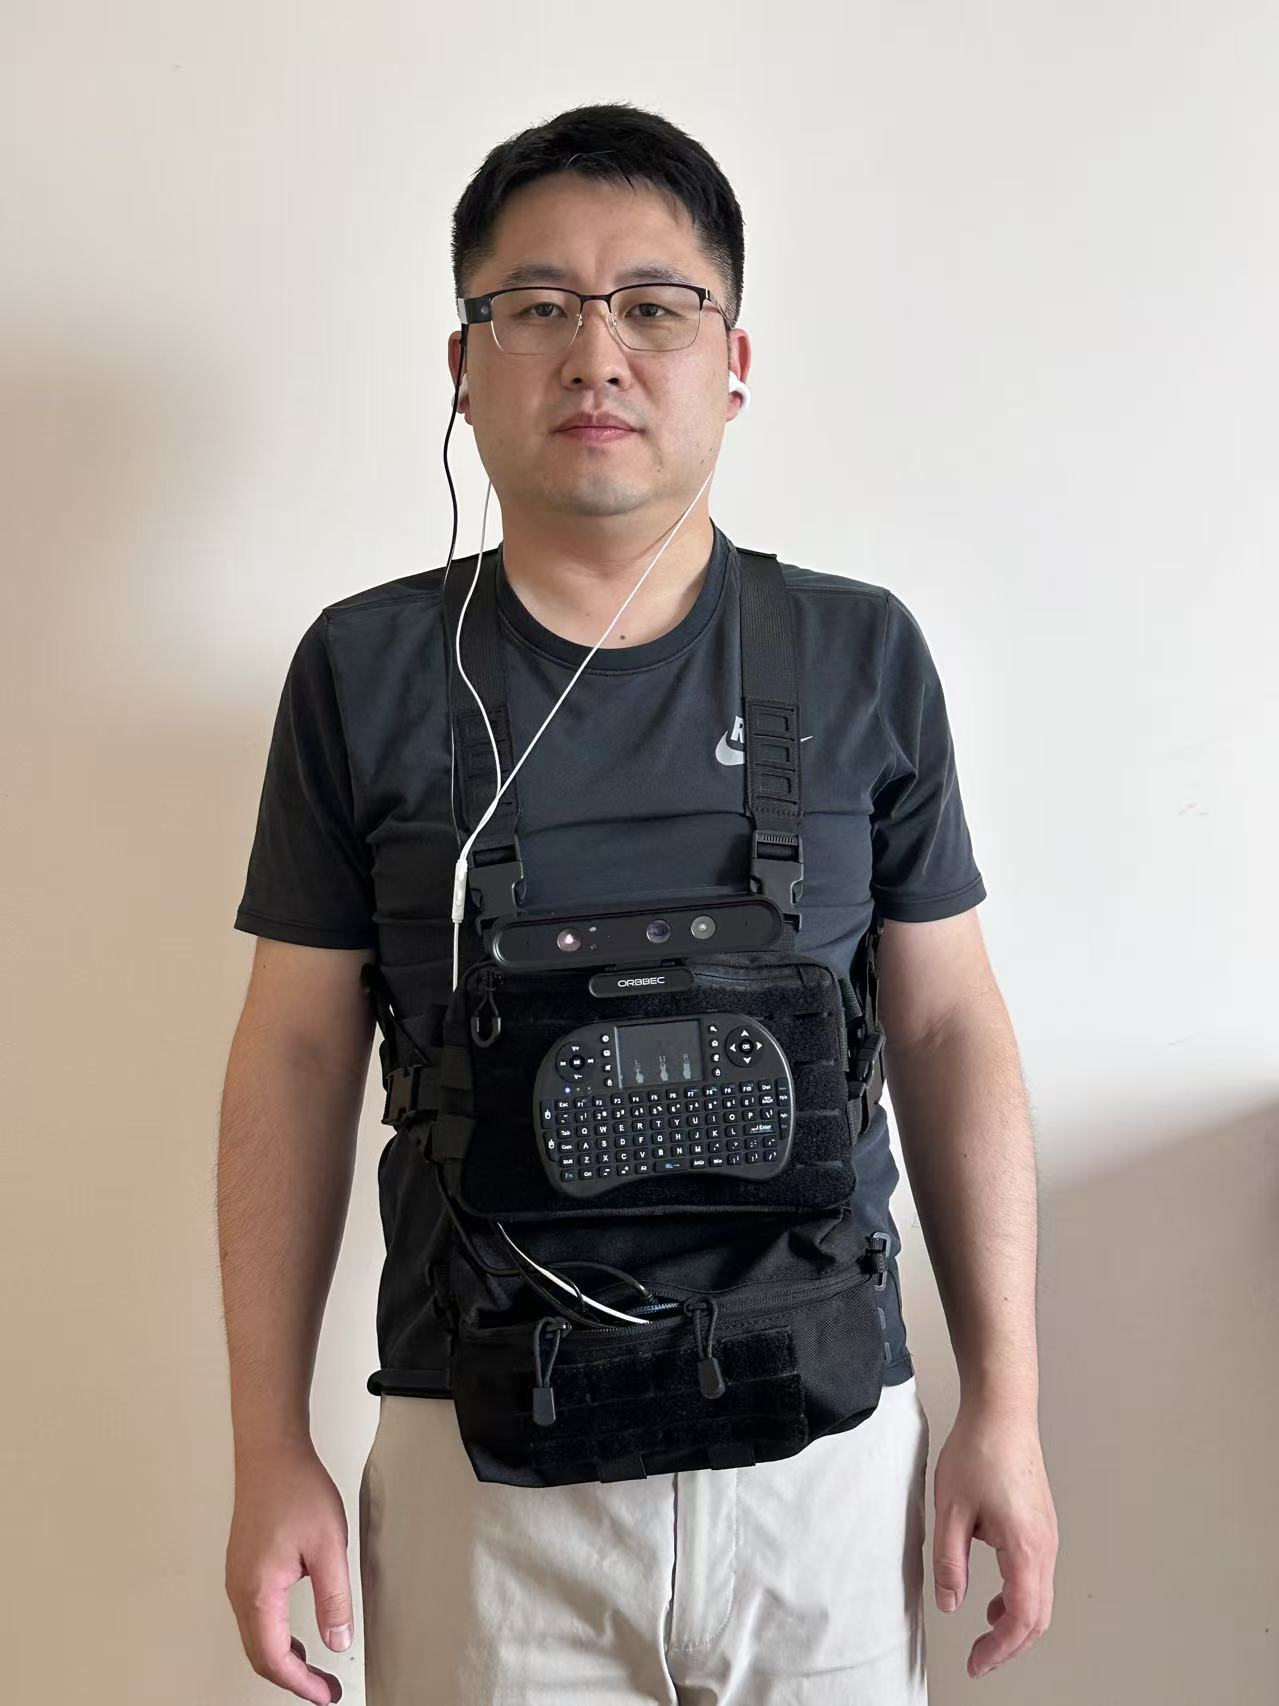
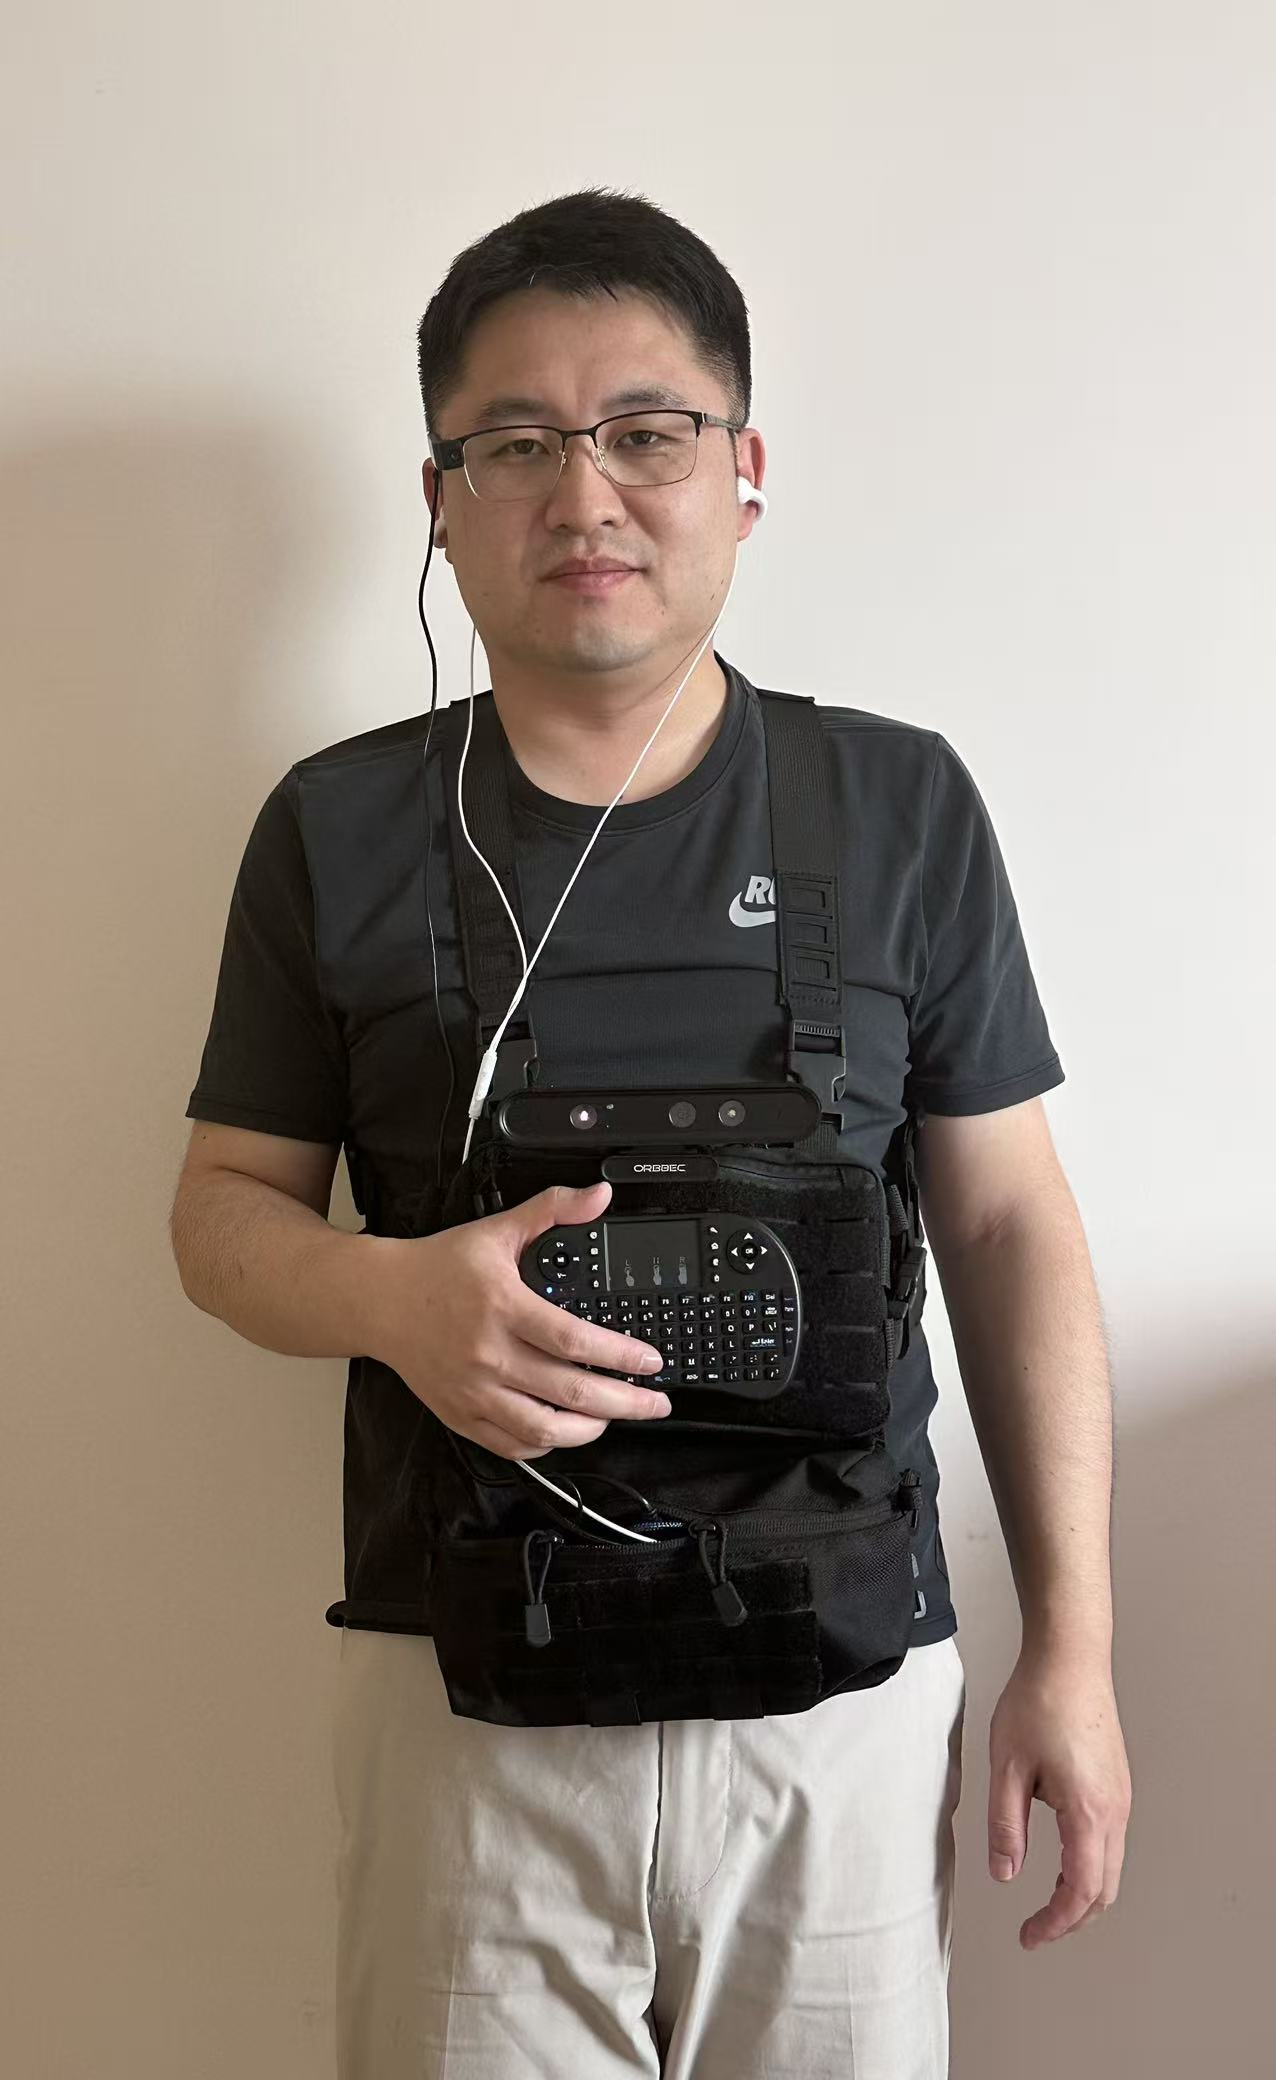
docs: update README with telemetry dashboard, future concept 2, and file organization
- Add Web telemetry dashboard section with telemetry_ui.png screenshot
- Add future_concept2.png to roadmap concept design
- Rename Chinese filename to telemetry_ui.png
- Clean up OrbbecSDK.log.txt and __pycache__ residues
- Update project structure tree in both Chinese and English READMEs

diff --git a/README_EN.md b/README_EN.md
@@ -106,7 +106,7 @@ The project spans a complete full-stack development path, ranging from **PC prot
 
 ```text
 VisionLink/
-├── src/                    # Core Source Code (Cross-platform, 10 modules)
+├── src/                    # Core Source Code (Cross-platform, 15 modules)
 │   ├── platform.py         # Platform detection & environment adaptation
 │   ├── config.py           # Unified configuration center
 │   ├── camera.py           # Dual camera management (POV glasses + FOV chest)
@@ -116,20 +116,36 @@ VisionLink/
 │   ├── ui.py               # UI rendering (YOLO overlay, auto-adapts to headless mode)
 │   ├── agent.py            # Core controller (state machine / auto mode / YOLO callback)
 │   ├── prompts.py          # Prompt template library (CN/EN bilingual)
-│   └── orbbec_depth.py     # Orbbec Astra Plus depth camera ctypes wrapper
-├── apps/                   # Application Entries (3)
+│   ├── orbbec_depth.py     # Orbbec Astra Plus depth camera ctypes wrapper
+│   ├── volume_control.py   # USB headset physical volume button listener (evdev + amixer)
+│   ├── web_dashboard.py    # Web control panel (real-time status / logs / control)
+│   ├── web_preview.py      # Web real-time camera preview
+│   └── dashboard_status.py # System status data collection
+├── apps/                   # Application Entries (4)
 │   ├── desktop.py          # Windows/Linux Desktop GUI full-featured edition
 │   ├── headless.py         # Jetson headless mode (evdev global keyboard listener)
-│   └── jetson.py           # Jetson terminal keyboard compatible (backward compat)
-├── scripts/                # Diagnostic & testing scripts (5)
+│   ├── jetson.py           # Jetson terminal keyboard compatible (backward compat)
+│   └── web_app.py          # Web control panel standalone entry
+├── scripts/                # Diagnostic & testing scripts (4)
 │   ├── check_system.py     # One-click system comprehensive diagnostic (8 categories)
 │   ├── check_camera.py     # Camera scanning & diagnostic
-│   └── check_audio.py      # Audio device detection & TTS test
-├── start.sh                # One-click launcher (5 modes)
-├── archive/                # Legacy iteration history (11 files)
+│   ├── check_audio.py      # Audio device detection & TTS test
+│   └── export_yolo_trt.py  # YOLOv8 TensorRT model export
+├── tests/                  # Unit tests (pytest)
+│   ├── conftest.py         # Test fixtures & mocks
+│   ├── test_agent.py       # Agent core logic tests
+│   ├── test_config.py      # Config module tests
+│   ├── test_detection.py   # YOLO detection module tests
+│   ├── test_platform.py    # Platform detection module tests
+│   ├── test_prompts.py     # Prompt template tests
+│   └── test_tts.py         # TTS module tests
+├── .github/workflows/      # CI/CD automated testing pipeline
+├── start.sh                # One-click launcher (6 modes)
+├── archive/                # Legacy iteration history
 ├── assets/                 # Static resources (Fonts, Audio)
 ├── docs/                   # Technical documentation
 ├── Log/                    # Runtime logs
+├── pytest.ini              # pytest configuration
 ├── requirements.txt        # Universal dependencies
 └── requirements-jetson.txt # Jetson-specific dependencies
 ```
@@ -167,6 +183,7 @@ ollama pull gemma4:e2b-it-qat
 ./start.sh              # Default: single-cam POV mode
 ./start.sh dual         # Dual-cam mode (POV + FOV)
 ./start.sh full         # Full mode (dual-cam + YOLO avoidance)
+./start.sh depth        # Depth avoidance mode (dual-cam + YOLO + Orbbec real depth)
 ./start.sh gui          # Headless + GUI debug window
 ./start.sh desktop      # Desktop GUI mode
 ```
@@ -193,6 +210,65 @@ ollama pull gemma4:e2b-it-qat
 
 ---
 
+## New Features
+
+### USB Headset Physical Volume Buttons
+
+In headless mode, physical volume +/- buttons on USB headsets have no effect by default (ALSA direct connection lacks HID event handling). The `src/volume_control.py` module listens for HID volume key events via evdev and automatically adjusts the sound card volume through amixer.
+
+- Auto-discovers the headset's `/dev/input/event*` device
+- Supports hot-plug with automatic reconnect on device disconnect
+- Graceful degradation: silently falls back if no device is detected
+- Auto-starts with the application, no extra configuration needed
+
+### Web Telemetry Dashboard
+
+VisionLink includes a built-in web telemetry dashboard. Open it on any phone/computer browser on the same LAN to monitor system status in real time:
+
+![Telemetry Dashboard](images/telemetry_ui.png)
+
+**How to access**: After launching the program, open `http://<Jetson_IP>:5000` in a browser.
+
+**Modules**:
+
+| Module | File | Description |
+| :--- | :--- | :--- |
+| Data Collection | `src/dashboard_status.py` | Thread-safe singleton tracking mode/YOLO/depth camera/Ollama connection status; inference/detection/TTS event logs (ring buffer, max 50 per type) |
+| Hardware Telemetry | `src/dashboard_status.py` | Jetson platform via jtop (GPU/CPU/Memory/Temperature), non-Jetson via psutil fallback |
+| Web Dashboard | `src/web_dashboard.py` | Flask routes + HTML page, dark terminal-style UI, real-time GPU/CPU/MEM/TEMP gauges, mode status, event log streams |
+| Video Stream | `src/web_preview.py` | MJPEG real-time video stream (`/video_feed`), background daemon thread, non-blocking |
+
+**Dashboard page features**:
+- **Hardware Status**: GPU usage, CPU usage, memory, chip temperature, refreshed every 2s
+- **App Status**: Current mode, YOLO on/off, depth camera connection, Ollama connection, auto mode status
+- **Real-time Logs**: Inference results (with latency), obstacle detection (danger/warning tiers), TTS playback records
+- **Latest Snapshot**: Most recent recognition result and corresponding image
+
+### Unit Tests & CI
+
+The project now integrates pytest testing framework, covering core modules:
+
+| Test File | Module Covered |
+| :--- | :--- |
+| `tests/test_agent.py` | Agent state machine & core logic |
+| `tests/test_config.py` | Config loading & validation |
+| `tests/test_detection.py` | YOLO detection pipeline |
+| `tests/test_platform.py` | Platform detection & adaptation |
+| `tests/test_prompts.py` | Prompt template rendering |
+| `tests/test_tts.py` | TTS multi-level fallback logic |
+
+```bash
+# Run all tests
+pytest tests/ -v
+
+# Run single module tests
+pytest tests/test_agent.py -v
+```
+
+CI runs automatically on every push via `.github/workflows/ci.yml`.
+
+---
+
 ## Product Roadmap
 
 * [x] **Phase 1 (PC Demo)**: Completed core pipeline execution on PC; validated three core multimodal application modules.
@@ -200,8 +276,14 @@ ollama pull gemma4:e2b-it-qat
 * [x] **Phase 3 (Engineering Refactor)**: Modularized the code architecture; unified cross-platform interfaces and added headless mode support.
 * [x] **Phase 4 (Hardware Integration)**: Fabricated the prototype for the head-tracked micro Type-C glasses camera; initially verified POV image capture stability.
 * [x] **Phase 5 (YOLO + Dual-Cam Fusion)**: Completed YOLOv8 real-time obstacle avoidance + depth distance estimation + dual-perspective fusion; global keyboard interaction in headless mode.
+* [x] **Phase 5.5 (Polishing & Tooling)**: USB headset physical volume button support, web control panel & real-time preview, pytest unit test framework & CI/CD pipeline, Orbbec depth avoidance mode.
 * [ ] **Phase 6 (Product Enclosure)**: Complete 3D nylon printing for ergonomic wearable kits; seamlessly modify the tactical chest pack for motherboard concealment and passive cooling.
 * [ ] **Phase 7 (Vertical Expansion)**: Cross over to neighboring verticals, transferring technologies into network-isolated industrial inspection robotics and healthcare monitoring for elderlies with dementia.
+
+  **Future Concept Design**:
+
+  ![Future Concept 1](images/concept/future_concept.png)
+  ![Future Concept 2](images/concept/future_concept2.png)
 
 ---
 

diff --git a/README.md b/README.md
@@ -128,7 +128,7 @@ An offline multimodal generative AI assistive system based on Gemma 4 for visual
 
 ```
 VisionLink/
-├── src/                    # 核心源码（跨平台，10 个模块）
+├── src/                    # 核心源码（跨平台，15 个模块）
 │   ├── platform.py         # 平台检测与环境适配
 │   ├── config.py           # 统一配置中心
 │   ├── camera.py           # 双摄像头管理（POV 镜腿 + FOV 胸前）
@@ -138,20 +138,36 @@ VisionLink/
 │   ├── ui.py               # UI 绘制（YOLO 检测框叠加，自动适配无头模式）
 │   ├── agent.py            # 核心控制中枢（状态机 / 自动模式 / YOLO 回调）
 │   ├── prompts.py          # Prompt 模板库（中英双语）
-│   └── orbbec_depth.py     # Orbbec Astra Plus 深度相机 ctypes 封装
-├── apps/                   # 应用入口（3 个）
+│   ├── orbbec_depth.py     # Orbbec Astra Plus 深度相机 ctypes 封装
+│   ├── volume_control.py   # USB 耳麦物理音量按钮监听（evdev + amixer）
+│   ├── web_dashboard.py    # Web 控制面板（实时状态/日志/控制）
+│   ├── web_preview.py      # Web 实时画面预览
+│   └── dashboard_status.py # 系统状态数据采集
+├── apps/                   # 应用入口（4 个）
 │   ├── desktop.py          # Windows/Linux 桌面 GUI 全功能版
 │   ├── headless.py         # Jetson 无头模式主入口（evdev 全局键盘监听）
-│   └── jetson.py           # Jetson 终端键盘兼容版（向后兼容）
-├── scripts/                # 测试与诊断脚本（5 个）
+│   ├── jetson.py           # Jetson 终端键盘兼容版（向后兼容）
+│   └── web_app.py          # Web 控制面板独立入口
+├── scripts/                # 测试与诊断脚本（4 个）
 │   ├── check_system.py     # 一键系统综合诊断（8 大类检查）
 │   ├── check_camera.py     # 摄像头扫描与诊断
-│   └── check_audio.py      # 音频设备检测与 TTS 测试
-├── start.sh                # 一键启动脚本（5 种模式）
-├── archive/                # 历史迭代版本（11 个文件）
+│   ├── check_audio.py      # 音频设备检测与 TTS 测试
+│   └── export_yolo_trt.py  # YOLOv8 TensorRT 模型导出工具
+├── tests/                  # 单元测试（pytest）
+│   ├── conftest.py         # 测试夹具与 mock
+│   ├── test_agent.py       # Agent 核心逻辑测试
+│   ├── test_config.py      # 配置模块测试
+│   ├── test_detection.py   # YOLO 检测模块测试
+│   ├── test_platform.py    # 平台检测模块测试
+│   ├── test_prompts.py     # Prompt 模板测试
+│   └── test_tts.py         # TTS 模块测试
+├── .github/workflows/      # CI/CD 自动测试流程
+├── start.sh                # 一键启动脚本（6 种模式）
+├── archive/                # 历史迭代版本
 ├── assets/                 # 静态资源（字体/音频）
 ├── docs/                   # 技术文档
 ├── Log/                    # 运行日志
+├── pytest.ini              # pytest 配置
 ├── requirements.txt        # 通用依赖
 └── requirements-jetson.txt # Jetson 专用依赖
 ```
@@ -189,6 +205,7 @@ ollama pull gemma4:e2b-it-qat
 ./start.sh              # 默认：单摄 POV 模式
 ./start.sh dual         # 双摄模式（POV + FOV）
 ./start.sh full         # 全功能模式（双摄 + YOLO 避障）
+./start.sh depth        # 深度避障模式（双摄 + YOLO + Orbbec 真实深度）
 ./start.sh gui          # 无头模式 + GUI 调试窗口
 ./start.sh desktop      # 桌面 GUI 模式
 ```
@@ -215,6 +232,65 @@ ollama pull gemma4:e2b-it-qat
 
 ---
 
+## 新增功能
+
+### USB 耳麦物理音量按钮
+
+在无头模式下，USB 耳麦上的物理音量 +/- 按钮默认不生效（ALSA 直连无 HID 事件处理）。现在 `src/volume_control.py` 通过 evdev 监听 HID 音量键事件，自动调用 amixer 调节声卡音量。
+
+- 自动发现耳麦对应的 `/dev/input/event*` 设备
+- 支持热插拔，设备断连后自动重连
+- 静默降级：设备未识别时不影响主功能
+- 启动时自动运行，无需额外配置
+
+### Web 遥测仪表板
+
+VisionLink 内置 Web 遥测仪表板，在同一局域网的手机/电脑浏览器打开即可实时监控系统运行状态：
+
+![遥测仪表板](images/telemetry_ui.png)
+
+**访问方式**：启动程序后，浏览器打开 `http://<Jetson_IP>:5000`
+
+**功能特性**：
+
+| 模块 | 文件 | 功能 |
+| :--- | :--- | :--- |
+| 数据采集 | `src/dashboard_status.py` | 线程安全单例，追踪模式/YOLO/深度相机/Ollama 连接状态、推理/检测/TTS 事件日志（环形缓冲区，每种最多 50 条） |
+| 硬件遥测 | `src/dashboard_status.py` | Jetson 平台 jtop（GPU/CPU/内存/温度），非 Jetson 平台 psutil 降级兜底 |
+| Web 仪表板 | `src/web_dashboard.py` | Flask 路由 + HTML 页面，暗色终端风格 UI，实时刷新 GPU/CPU/MEM/TEMP 仪表盘、模式状态、事件日志流 |
+| 视频推流 | `src/web_preview.py` | MJPEG 实时画面推流（`/video_feed`），后台 daemon 线程，非阻塞运行 |
+
+**仪表板页面包含**：
+- **硬件状态**：GPU 使用率、CPU 使用率、内存占用、芯片温度，2 秒刷新
+- **应用状态**：当前模式、YOLO 开关、深度相机连接、Ollama 连接、自动模式状态
+- **实时日志**：推理结果（含耗时）、障碍物检测（含危险/预警分级）、TTS 播报记录
+- **最新快照**：最近一次触发的识别结果与对应画面
+
+### 单元测试与 CI
+
+项目现已接入 pytest 测试框架，覆盖核心模块：
+
+| 测试文件 | 覆盖模块 |
+| :--- | :--- |
+| `tests/test_agent.py` | Agent 状态机与核心逻辑 |
+| `tests/test_config.py` | 配置加载与校验 |
+| `tests/test_detection.py` | YOLO 检测流程 |
+| `tests/test_platform.py` | 平台检测适配 |
+| `tests/test_prompts.py` | Prompt 模板渲染 |
+| `tests/test_tts.py` | TTS 多级回退逻辑 |
+
+```bash
+# 运行全部测试
+pytest tests/ -v
+
+# 运行单个模块测试
+pytest tests/test_agent.py -v
+```
+
+CI 通过 `.github/workflows/ci.yml` 在每次 push 时自动运行测试。
+
+---
+
 ## 产品 Roadmap（迭代规划）
 
 * [x] **Phase 1 (PC Demo)**：PC端基本流水线跑通，完成三大核心多模态功能调试。
@@ -222,11 +298,13 @@ ollama pull gemma4:e2b-it-qat
 * [x] **Phase 3 (工程化重构)**：模块化代码架构，双平台统一接口，无头模式支持。
 * [x] **Phase 4 (硬件联调)**：完成镜腿微型 Type-C 摄像头原型制作，初步验证 POV 图像采集稳定性。
 * [x] **Phase 5 (工程封装)**：完成 YOLOv8 实时避障 + 深度距离估计 + 双视角融合，无头模式全局键盘交互。
+* [x] **Phase 5.5 (体验打磨)**：USB 耳麦物理音量按钮支持、Web 控制面板与实时画面预览、pytest 单元测试体系与 CI/CD 自动流程、Orbbec 深度避障模式。
 * [ ] **Phase 6 (工业设计)**：完成 3D 打印尼龙人体工学挂脖/背包打样，推出商业级 MVP 样机。
 
   **未来概念设计**：
 
-  ![未来概念图](images/concept/future_concept.png)
+  ![未来概念图1](images/concept/future_concept.png)
+  ![未来概念图2](images/concept/future_concept2.png)
 * [ ] **Phase 7 (场景外溢)**：横向跨界，平移至无网工业巡检机器人、失智老人健康看护等垂直市场。
 
 ---